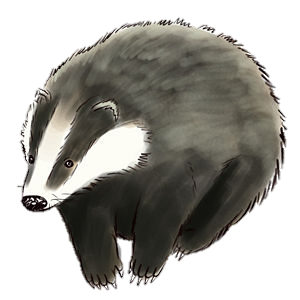
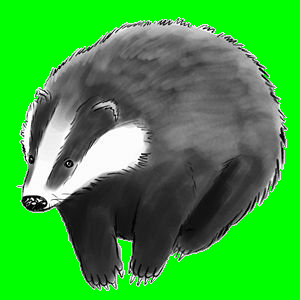
Updated background

diff --git a/Basics.py b/Basics.py
@@ -5,11 +5,11 @@ import os
 # VARIABLES
 
 main = True
-worldx = 500
-worldy = 500
+worldx = 1920
+worldy = 1080
 fps = 60
 ani = 4
-
+ALPHA = (0, 255, 0)
 
 # OBJECTS
 
@@ -19,6 +19,8 @@ class Player(pygame.sprite.Sprite):
         self.images = []
         img = pygame.image.load(os.path.join('images', 'hero.png')).convert()
         self.images.append(img)
+        img.convert_alpha()
+        img.set_colorkey(ALPHA)
         self.image = self.images[0]
         self.rect = self.image.get_rect()
         self.movex = 0
@@ -36,7 +38,7 @@ class Player(pygame.sprite.Sprite):
 clock = pygame.time.Clock()
 pygame.init()
 world = pygame.display.set_mode([worldx, worldy])
-backdrop = pygame.image.load(os.path.join('images', 'epic_bg.png'))
+backdrop = pygame.image.load(os.path.join('images', 'beach.png'))
 backdropbox = world.get_rect()
 player = Player()
 player.rect.x = 0
